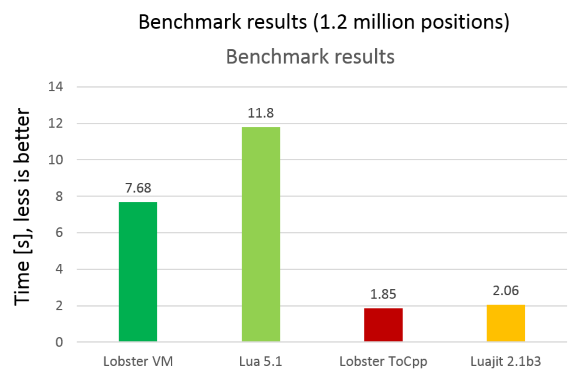
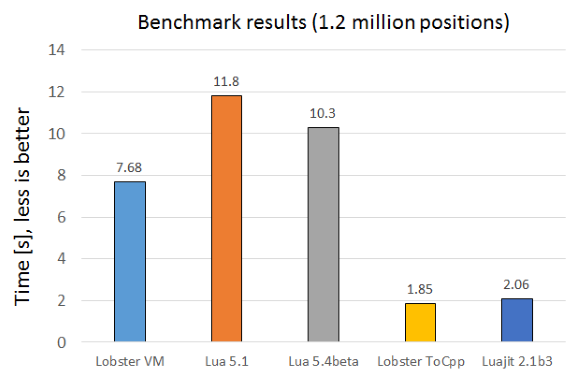
Added Lua 5.4 benchmark results

diff --git a/README.md b/README.md
@@ -26,7 +26,7 @@ This will compute the best move from an empty board to a search depth of 7 start
 
 #### Benchmark results
 <p>
-Below are the results for my machine (i5-4690K @3.5GHz) using the latest Lobster (x64 Release using VS2019), Lua 5.1.4, and the HEAD version of Luajit 2.1-beta3. While the Lobster VM is currently already quite a bit faster than Lua 5.1.4, the version compiled to C++ (using the --cpp switch) even beats Luajit 2.1 which I think is remarkable given the maturity of Luajit. A different C++ compiler might even increase the advantage...
+Below are the results for my machine (i5-4690K @3.5GHz) using the latest Lobster (x64 Release using VS2019), Lua 5.1.4, the Lua 5.4beta, and the HEAD version of Luajit 2.1-beta3. While the Lobster VM is currently already quite a bit faster than Lua 5.1.4 and Lua 5.4, the version compiled to C++ (using the --cpp switch) even beats Luajit 2.1 which I think is remarkable given the maturity of Luajit. A different C++ compiler might even increase the advantage...
 
 ![Benchmark results](bench_results.png)
 </p>
